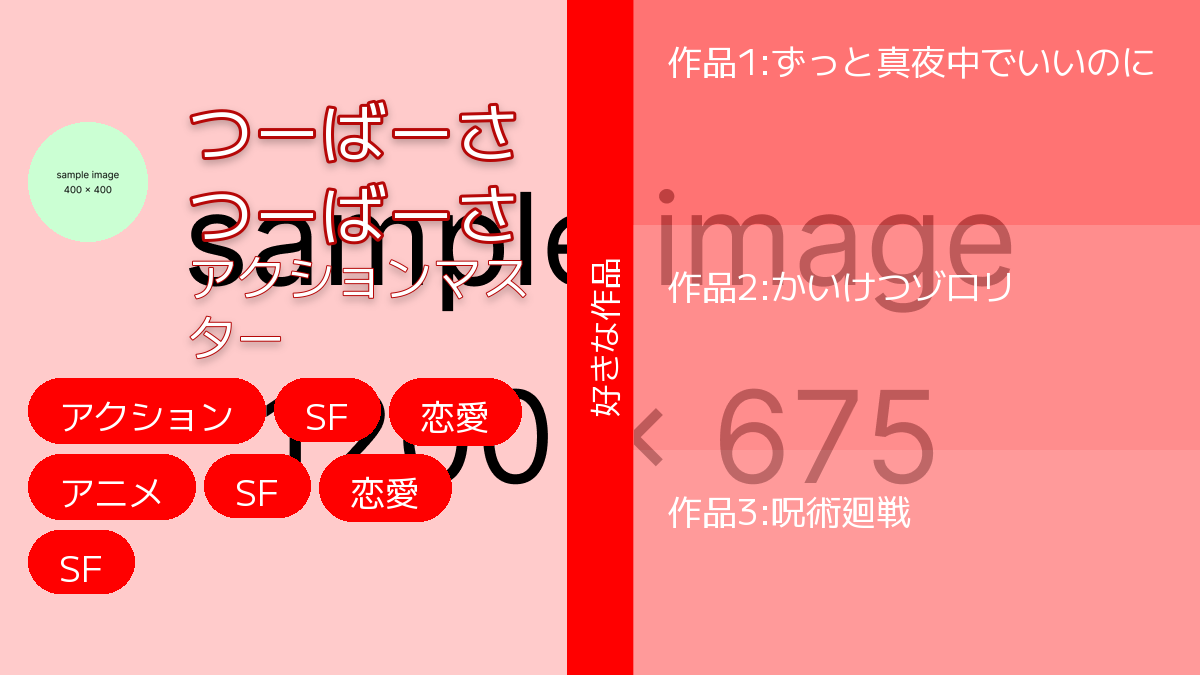
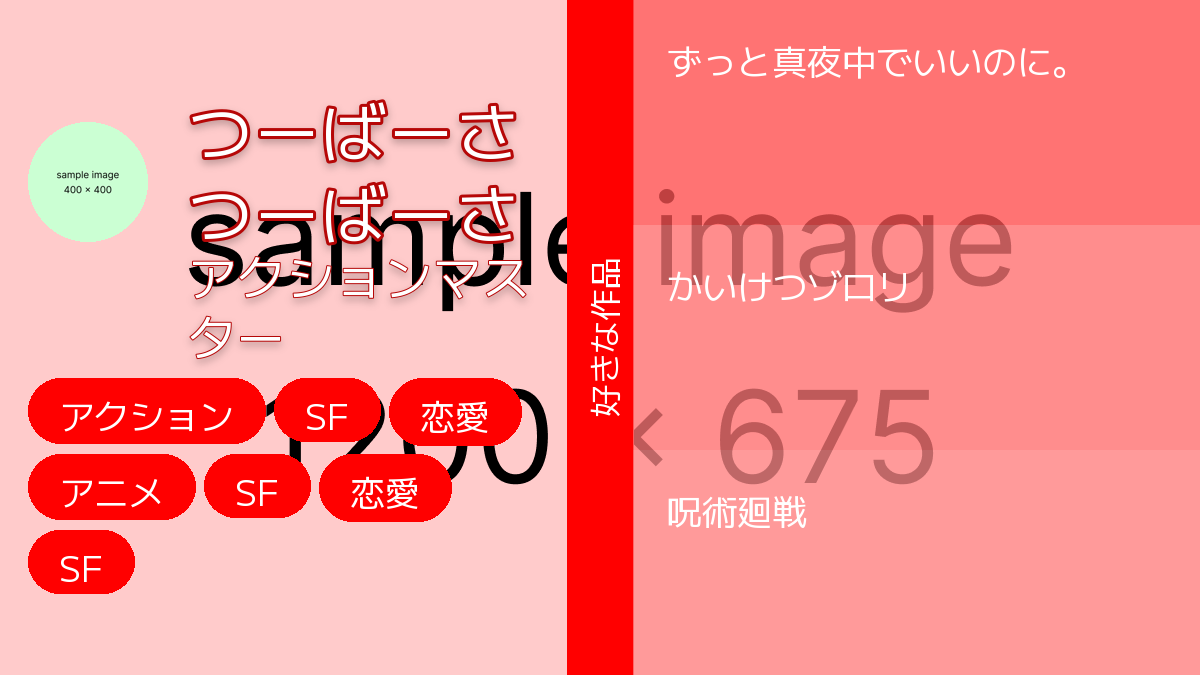
type1の作品一覧を修正

Changed region(s): [[0.555, 0.0622, 0.9558, 0.1244], [0.555, 0.4044, 0.8325, 0.4667], [0.555, 0.7156, 0.7708, 0.8089]]

diff --git a/type1.py b/type1.py
@@ -268,15 +268,15 @@ def _draw_arts(img: Image.Image, arts, colors):
     # 文字入れ１
     print("test-1")
     rec1_inner_rect = rect1.inner_rect(padding=Padding.new_all(34))
-    draw.text(rec1_inner_rect.offset.to_tuple(), "作品1:ずっと真夜中でいいのに", font=get_font(35))
+    draw.text(rec1_inner_rect.offset.to_tuple(), arts[0], font=get_font(35))
 
     # 文字入れ２
     rec2_inner_rect = rect2.inner_rect(padding=Padding.new_all(34))
-    draw.text(rec2_inner_rect.offset.to_tuple(), "作品2:かいけつゾロリ", font=get_font(35))
+    draw.text(rec2_inner_rect.offset.to_tuple(), arts[1], font=get_font(35))
 
     # 文字入れ３
     rec3_inner_rect = rect3.inner_rect(padding=Padding.new_all(34))
-    draw.text(rec3_inner_rect.offset.to_tuple(), "作品3:呪術廻戦", font=get_font(35))
+    draw.text(rec3_inner_rect.offset.to_tuple(), arts[2], font=get_font(35))
 
 
 def businesscard_type_1(
